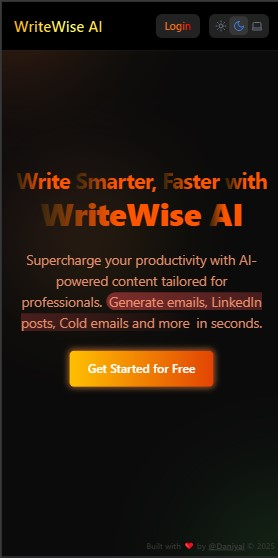
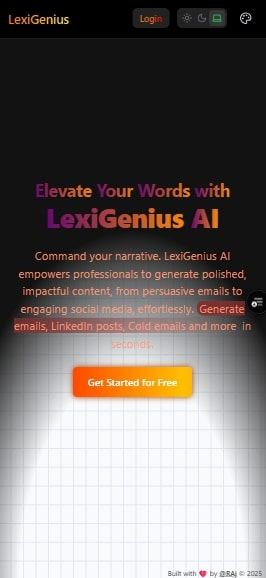
readme  set

diff --git a/README.md b/README.md
@@ -1,81 +1,166 @@
-<div align="center">
-  <br />
-    <a href="#" target="_blank">
-      <img src="public/Readmebanner.png" alt="Project Banner">
-    </a>
-  <br />
+# LexiGenius - AI-Powered Writing Assistant
 
-<div>
-  <img src="https://img.shields.io/badge/-Typescript-black?style=for-the-badge&logoColor=white&logo=react&color=3178C6" alt="typescript" />
-  <img src="https://img.shields.io/badge/-Next_JS-black?style=for-the-badge&logoColor=white&logo=nextdotjs&color=000000" alt="nextdotjs" />
-  <img src="https://img.shields.io/badge/-Tailwind_CSS-black?style=for-the-badge&logoColor=white&logo=tailwindcss&color=06B6D4" alt="tailwindcss" />
-  <img src="https://img.shields.io/badge/-Framer%20Motion-black?style=for-the-badge&logo=framer&logoColor=white&color=0055FF" alt="Framer Motion" />
-  <img src="https://img.shields.io/badge/-Firebase-black?style=for-the-badge&logo=firebase&logoColor=white&color=FFCA28" alt="Firebase" />
-<img src="https://img.shields.io/badge/-OpenRouter_API-black?style=for-the-badge&logo=cloudflare&logoColor=white&color=412991" alt="OpenRouter API" />
+<p align="center">
+  <img src="aiLaptop.jpg" alt="LexiGenius on Laptop" width="700"/>
+</p>
 
+<p align="center">
+  <strong>Your intelligent writing partner for clear, professional, and impactful content.</strong>
+</p>
 
-</div>
+<p align="center">
+  <img alt="License" src="https://img.shields.io/github/license/CodewithEvilxd/lexigenius">
+  <img alt="Build Status" src="https://img.shields.io/vercel/deployment/CodewithEvilxd/lexigenius?label=deployment">
+  <img alt="Next.js" src="https://img.shields.io/badge/Next.js-15.3.5-blue?logo=next.js">
+  <img alt="TypeScript" src="https://img.shields.io/badge/TypeScript-5-blue?logo=typescript">
+</p>
 
-<h1 align="center">EVILXD</h1>
-</div>
+---
 
-## 🚀 Live
+LexiGenius is a comprehensive AI-powered writing assistant designed to streamline your content creation process. Whether you're drafting emails, writing blog posts, or generating social media content, LexiGenius provides the tools you need to produce high-quality text in a fraction of the time.
 
-🔗 [View Project](#)
+## ✨ Key Features
 
-## <a name="introduction">🤖 Introduction</a>
+-   **🤖 Advanced Content Generation:**
+    -   Choose from a wide range of templates like emails, LinkedIn posts, product descriptions, and more.
+    -   The AI understands context and generates relevant, coherent, and high-quality content.
 
-EVILXD is an AI-powered writing assistant designed to help professionals craft clear, compelling, and grammatically correct content with ease. Whether you're writing emails, reports, social media posts, or creative pieces, EVILXD enhances your productivity by generating high-quality text tailored to your needs.
+-   **🎨 Customizable Tone & Style:**
+    -   Fine-tune the generated text by selecting from various tones (Formal, Humorous, Persuasive, etc.) and lengths.
+    -   Ensure your content aligns perfectly with your brand's voice and audience.
 
-## ⚙ Tech Stack
+-   **💬 Interactive AI Chatbot:**
+    -   Engage in a conversation with our AI chatbot for quick answers, brainstorming, or to get help with your writing.
 
-- ✔ Next.js 15
-- ✔ TailwindCSS
-- ✔ Firebase
-- ✔ TypeScript
-- ✔ OpenAI API
+-   **🗂 Persistent History:**
+    -   Automatically saves your generated content, allowing you to revisit and reuse it at any time.
+    -   Your history is tied to your account, so you can access it from any device.
 
-## ✨ Features
+-   **📊 Customizable Dashboard:**
+    -   A flexible, grid-based dashboard that you can personalize to your workflow.
+    -   Add, remove, and resize widgets like the content generator and chatbot.
 
-- **AI-Powered Text Generation (LLaMA via OpenRouter API)\*\***: Generate high-quality, professional content using Meta’s LLaMA model accessed through the OpenRouter API — combining open-source language modeling with seamless API integration and flexibility.
-- **Improve Previous Response:**: Instantly refine any generated content with a follow-up instruction — make it more formal, friendly, concise, persuasive, or anything you want — without retyping the original input.
-- **Real-Time Streaming Output**: Watch your content appear word by word, enhancing interactivity.
-- **One-Click Copy**: Quickly copy the generated content for use anywhere.
-- **Auto-Save & Manage History**: Every generation is automatically saved to your personal history. Easily delete specific entries or clear your entire history with a single click.
-- **Authentication**: Secure login and sign-up with email, third-party providers, or continue instantly as a guest — no sign-up required.
-- **Responsive Design**: Seamless adaptability across all devices, ensuring optimal viewing experience for every user.
-- **Dark Mode with System Preference**: Automatically adapts to your device’s theme (light or dark) for a seamless experience.
-- **Form Validation**: Robust client-side validation ensures clean input and a smooth user experience.
+-   **📱 Progressive Web App (PWA):**
+    -   Install LexiGenius on your desktop or mobile device for a fast, reliable, and engaging app-like experience.
 
-and many more, including code architecture and reusability
+-   **🔐 Secure Authentication:**
+    -   User authentication is handled securely through Firebase, with support for email/password and Google Sign-In.
 
-Follow these steps to set up the project locally on your machine.
+-   **🌓 Light & Dark Mode:**
+    -   A sleek, modern interface with both light and dark themes to reduce eye strain.
 
-**Prerequisites**
+## 🖼 Screenshots
 
-Make sure you have the following installed on your machine:
+<p align="center">
+  <img src="aiLaptop.jpg" alt="LexiGenius on Laptop" width="700"/>
+  <br>
+  <em>LexiGenius on a laptop, showcasing the customizable dashboard.</em>
+</p>
 
-- [Git](https://git-scm.com/)
-- [Node.js](https://nodejs.org/en)
-- [npm](https://www.npmjs.com/) (Node Package Manager)
+<p align="center">
+  <img src="aiphone.jpg" alt="LexiGenius on Phone" width="300"/>
+  <br>
+  <em>LexiGenius on a mobile device, demonstrating its responsive design.</em>
+</p>
 
-**Cloning the Repository**
+## 🛠 Tech Stack
 
-```bash
-git clone https://github.com/your-username/lexigenius
-cd lexigenius
+| Category       | Technology                                                                              |
+| -------------- | --------------------------------------------------------------------------------------- |
+| **Framework**  | [Next.js](https://nextjs.org/)                                                          |
+| **Language**   | [TypeScript](https://www.typescriptlang.org/)                                           |
+| **Styling**    | [Tailwind CSS](https://tailwindcss.com/)                                                |
+| **Auth**       | [Firebase Authentication](https://firebase.google.com/docs/auth)                        |
+| **Database**   | [Firestore](https://firebase.google.com/docs/firestore)                                 |
+| **PWA**        | [next-pwa](https://www.npmjs.com/package/next-pwa)                                      |
+| **Animation**  | [Framer Motion](https://www.framer.com/motion/)                                         |
+| **UI**         | [React Grid Layout](https://github.com/react-grid-layout/react-grid-layout), [Shadcn/ui](https://ui.shadcn.com/) |
+
+## 📂 Project Structure
+
+```
+writewiseAI-main/
+├── public/                 # Public assets (images, icons, manifest.json)
+├── src/
+│   ├── app/                # Next.js App Router
+│   │   ├── api/            # API routes
+│   │   ├── auth/           # Authentication pages
+│   │   ├── dashboard/      # Dashboard pages
+│   │   └── ...             # Other pages and layouts
+│   ├── components/         # Reusable React components
+│   │   ├── ui/             # UI components (buttons, cards, etc.)
+│   │   └── ...
+│   ├── lib/                # Helper functions, libraries, and configurations
+│   │   ├── firebase.ts     # Firebase configuration
+│   │   └── ...
+│   └── middleware.ts       # Next.js middleware for authentication
+├── .env.local              # Environment variables
+├── next.config.ts          # Next.js configuration
+└── ...
 ```
 
-**Installation**
+## 🚀 Getting Started
 
-Install the project dependencies using npm:
+### Prerequisites
 
-```bash
-npm install
-```
+-   Node.js (v18 or later)
+-   npm or yarn
 
-**Running the project locally**
+### Installation & Setup
 
-```bash
-npm run dev
-```
+1.  **Clone the repository:**
+    ```bash
+    git clone https://github.com/CodewithEvilxd/lexigenius.git
+    cd lexigenius
+    ```
+
+2.  **Install dependencies:**
+    ```bash
+    npm install
+    ```
+
+3.  **Set up Firebase:**
+    -   Go to the [Firebase Console](https://console.firebase.google.com/) and create a new project.
+    -   Enable **Authentication** (with Google provider) and **Firestore**.
+    -   In your project settings, get your Firebase configuration keys.
+
+4.  **Set up environment variables:**
+    Create a `.env.local` file in the root of your project and add your configuration keys:
+
+    ```env
+    # Get this from your OpenRouter account
+    OPENROUTER_API_KEY=your_openrouter_api_key
+
+    # Get these from your Firebase project settings
+    NEXT_PUBLIC_FIREBASE_API_KEY=your_firebase_api_key
+    NEXT_PUBLIC_FIREBASE_AUTH_DOMAIN=your_firebase_auth_domain
+    NEXT_PUBLIC_FIREBASE_PROJECT_ID=your_firebase_project_id
+    NEXT_PUBLIC_FIREBASE_STORAGE_BUCKET=your_firebase_storage_bucket
+    NEXT_PUBLIC_FIREBASE_MESSAGING_SENDER_ID=your_firebase_messaging_sender_id
+    NEXT_PUBLIC_FIREBASE_APP_ID=your_firebase_app_id
+    NEXT_PUBLIC_FIREBASE_MEASUREMENT_ID=your_firebase_measurement_id
+    ```
+
+5.  **Run the development server:**
+    ```bash
+    npm run dev
+    ```
+
+    The application will be available at [http://localhost:3000](http://localhost:3000).
+
+## 🚢 Deployment
+
+This application is optimized for deployment on the [Vercel Platform](https://vercel.com/).
+
+-   Push your code to a Git repository (GitHub, GitLab, Bitbucket).
+-   Import your project into Vercel.
+-   Add your environment variables in the Vercel project settings.
+-   Vercel will automatically build and deploy your application.
+
+## 🤝 Contributing
+
+We welcome contributions! If you have ideas for new features or improvements, please open an issue or submit a pull request.
+
+## 📄 License
+
+This project is licensed under the MIT License. See the [LICENSE](LICENSE) file for more details.
